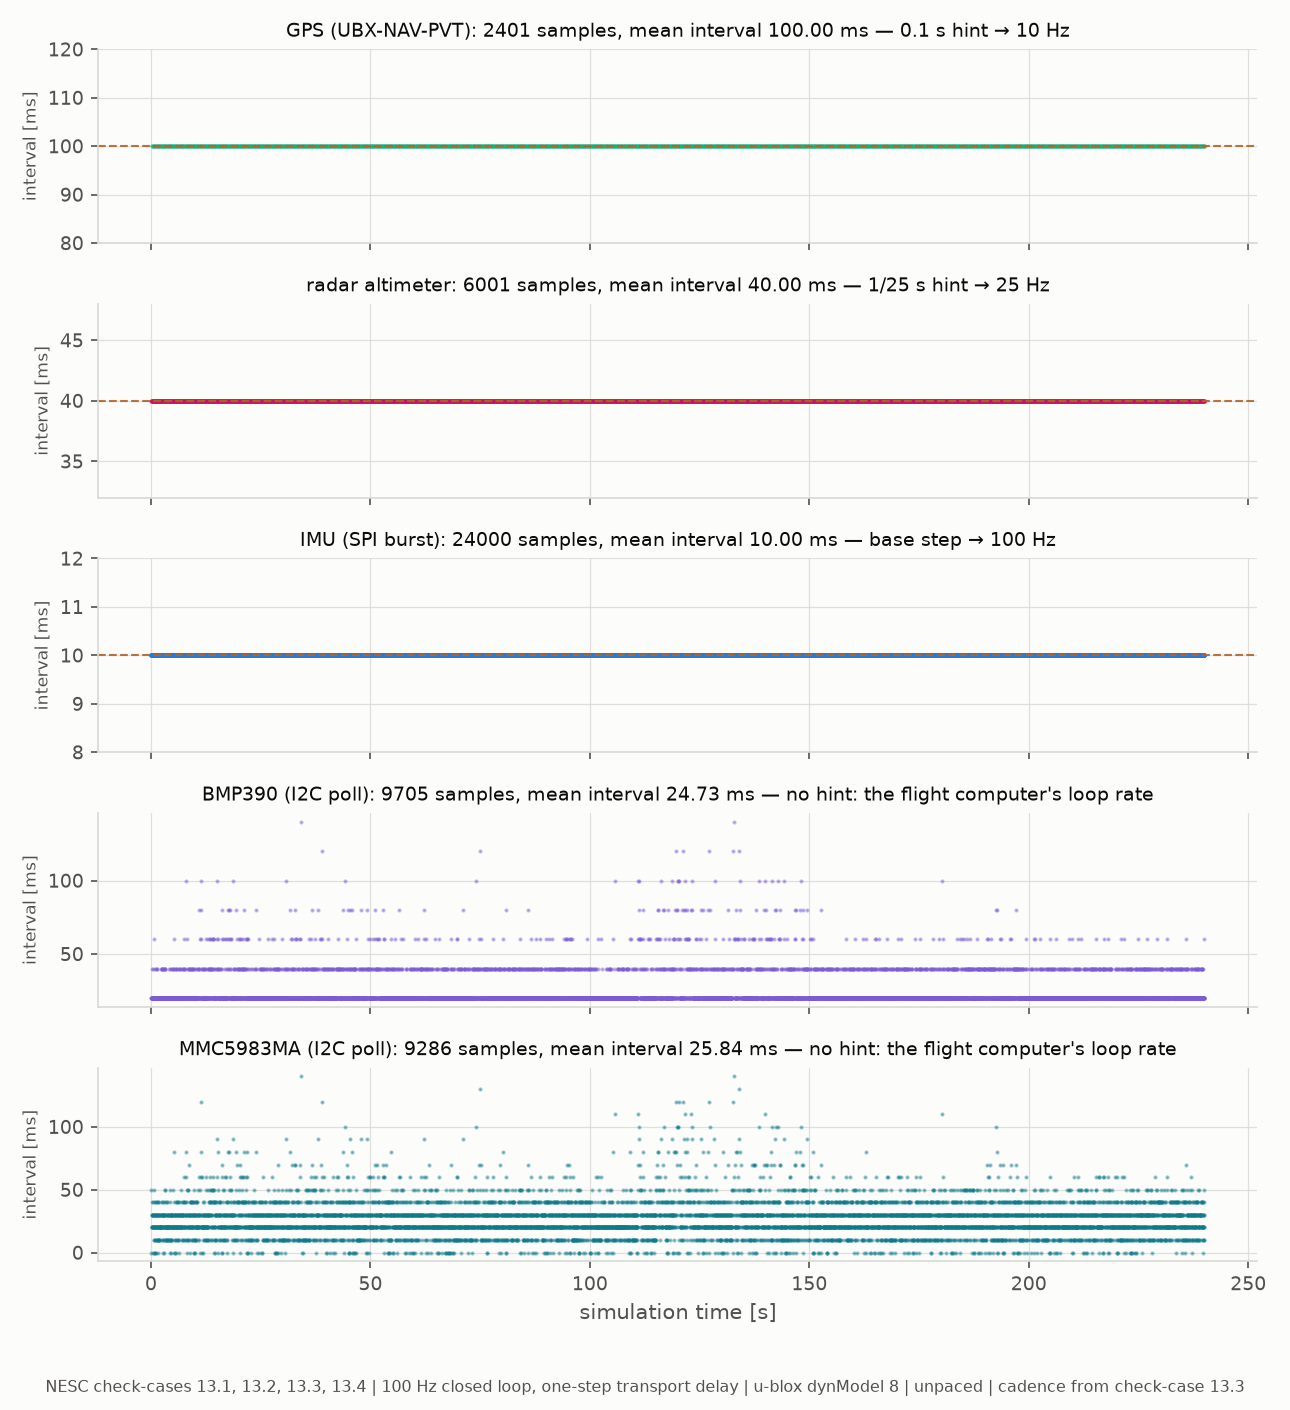
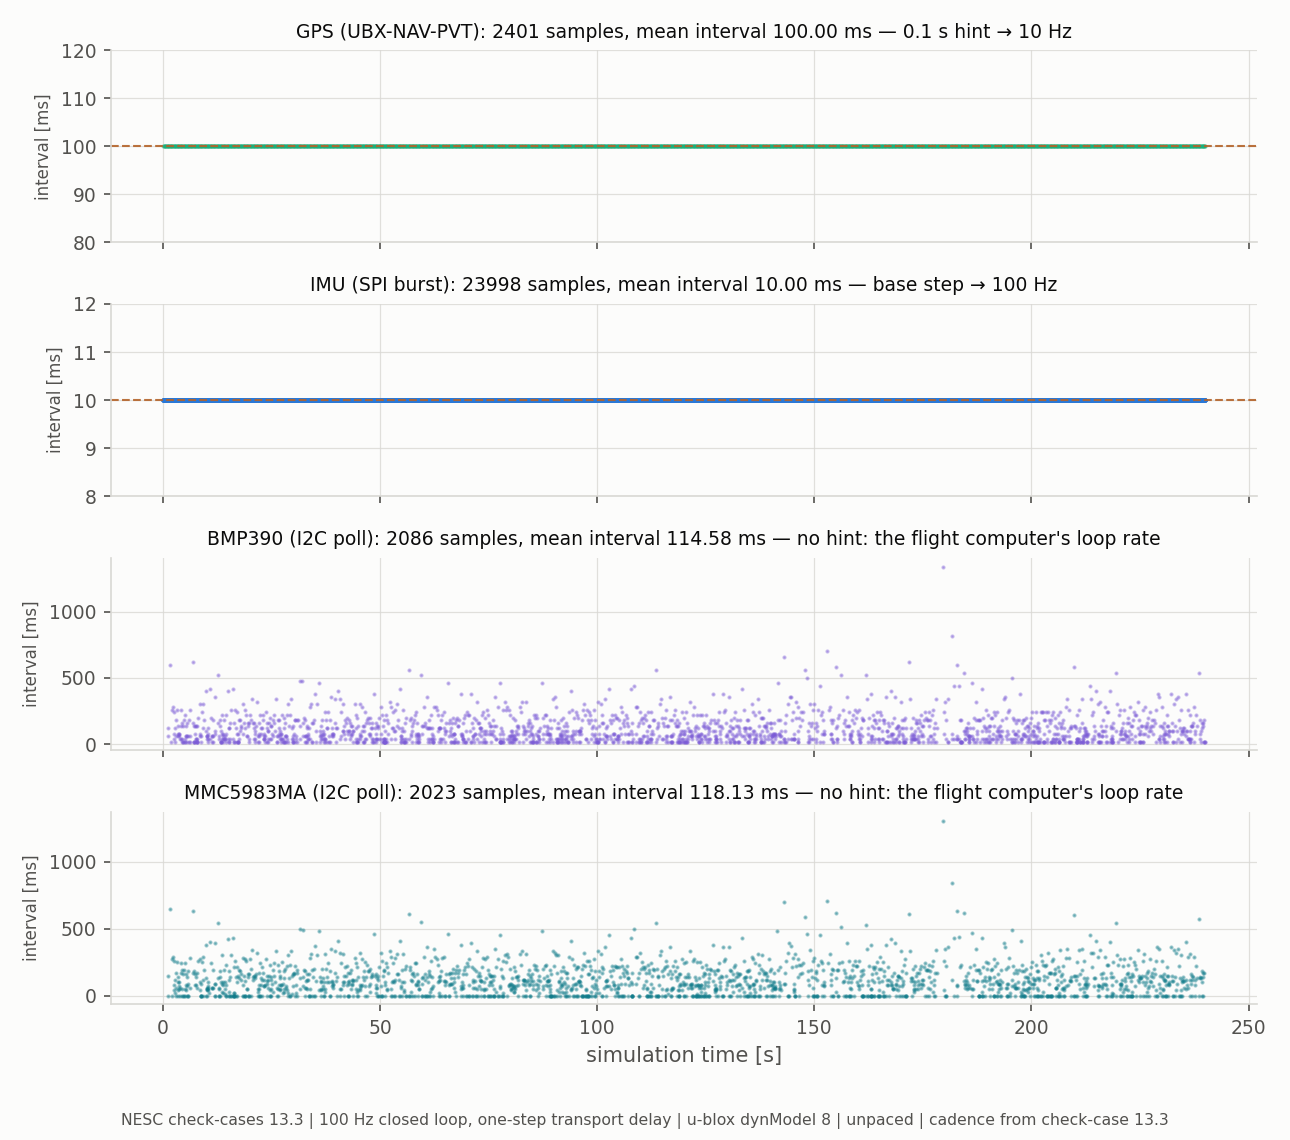
doc(examples): regenerate the autopilot sensor-cadence figure without the radar row
Check-case 13.3, 240 s, the example's own 0.01 s base step, IMU 100 Hz,
GNSS 10 Hz, against Aetherion 0.18.2 (pinned). The hinted rows
reproduce exactly (GPS 2401 samples at 100.00 ms, IMU 23998 at
10.00 ms). The polled I2C rows depend on the host's poll rate and came
out at 114.58 / 118.13 ms on a loaded machine against 24.73 / 25.84 ms
in the 2026-09 run; the caption now says so instead of claiming the
old banding.

diff --git a/doc/f16_autopilot_ecos_cosim.rst b/doc/f16_autopilot_ecos_cosim.rst
@@ -331,7 +331,7 @@ looking complete.
 
 .. figure:: _static/f16_autopilot_ecos/sensor_cadence.png
    :width: 100%
-   :alt: Five stacked panels of sample interval against time — GPS flat at 100 ms, radar altimeter at 40 ms, IMU at 10 ms, and the two I2C parts scattered across bands at multiples of 10 ms
+   :alt: Four stacked panels of sample interval against time — GPS flat at 100 ms, IMU at 10 ms, and the two I2C parts scattered between 0 and about 500 ms
 
    The two-rate scheme, measured rather than asserted. The plant and the
    autopilot run at 100 Hz because the control loop needs it; the sensors do
@@ -340,18 +340,19 @@ looking complete.
    check-case 13.3's 240 s window:
 
    * GPS — 2401 samples, mean interval **100.00 ms**. Exactly 10 Hz.
-   * radar altimeter — 6001 samples, **40.00 ms**. Exactly 25 Hz.
-   * IMU — 24000 samples, **10.00 ms**. Exactly one frame per base step.
+   * IMU — 23998 samples, **10.00 ms**. Exactly one frame per base step.
 
-   The three hinted rows are flat lines, which is the result; their axes are
+   The two hinted rows are flat lines, which is the result; their axes are
    pinned to ±20 % of the mean, because an auto-scaled constant is a picture of
    numerical dust.
 
    The two I2C rows are the interesting ones. They carry no hint at all — a
    BMP390 data register is not a FIFO, so their rate is whatever the flight
    computer's poll loop achieves — and their intervals are a scatter rather
-   than a line, averaging 24.73 ms and 25.84 ms. The scatter has structure: it
-   lands on bands at multiples of the 10 ms base step, because a polled part
-   only has something new to say once the master has stepped it. That is the
-   whole reason the trim example's figures come from paced runs, and the
-   reason these do not need to be.
+   than a line. On the run drawn here (regenerated 2026-11-13 against
+   Aetherion 0.18.2, on a machine also running a build) they average
+   114.58 ms and 118.13 ms; the 2026-09 run this figure replaced, on an idle
+   machine, averaged 24.73 ms and 25.84 ms and landed on bands at multiples of
+   the 10 ms base step, because a polled part only has something new to say
+   once the master has stepped it. That load dependence is the whole reason
+   the trim example's figures come from paced runs.
